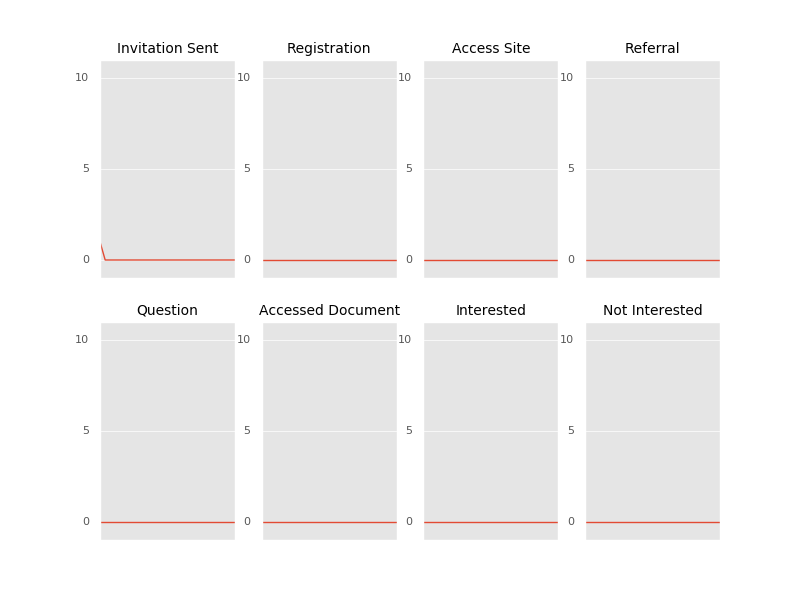
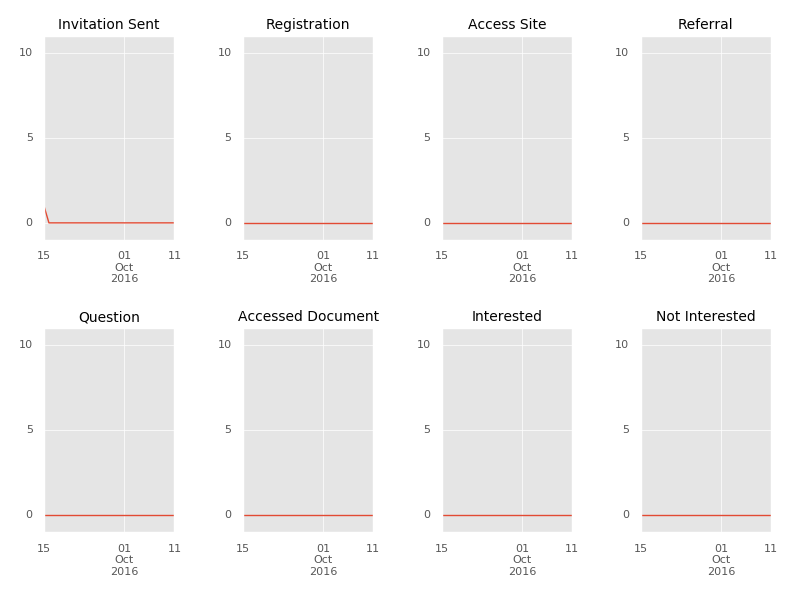
pm

diff --git a/map.html b/map.html
@@ -110,7 +110,7 @@
             
         
             
-            <style> #map_50638bd0befb40dda98ff3c7b778ac5d {
+            <style> #map_c782999ccf5a46fab54602fbe451bb4c {
                 position : relative;
                 width : 100.0%;
                 height: 100.0%;
@@ -126,7 +126,7 @@
             
         
             
-            <div class="folium-map" id="map_50638bd0befb40dda98ff3c7b778ac5d" ></div>
+            <div class="folium-map" id="map_c782999ccf5a46fab54602fbe451bb4c" ></div>
         
         
         
@@ -140,7 +140,7 @@
             var northEast = L.latLng(90, 180);
             var bounds = L.latLngBounds(southWest, northEast);
 
-            var map_50638bd0befb40dda98ff3c7b778ac5d = L.map('map_50638bd0befb40dda98ff3c7b778ac5d', {
+            var map_c782999ccf5a46fab54602fbe451bb4c = L.map('map_c782999ccf5a46fab54602fbe451bb4c', {
                                            center:[43,-100],
                                            zoom: 4,
                                            maxBounds: bounds,
@@ -151,7 +151,7 @@
         
         
             
-            var tile_layer_63b56f59075847e78f5e2d5ae53a6ca8 = L.tileLayer(
+            var tile_layer_62ee553be86d4d3faf8faa005ba39dca = L.tileLayer(
                 'https://{s}.tile.openstreetmap.org/{z}/{x}/{y}.png',
                 {
                     maxZoom: 18,
@@ -159,30 +159,30 @@
                     attribution: 'Data by <a href="http://openstreetmap.org">OpenStreetMap</a>, under <a href="http://www.openstreetmap.org/copyright">ODbL</a>.',
                     detectRetina: false
                     }
-                ).addTo(map_50638bd0befb40dda98ff3c7b778ac5d);
+                ).addTo(map_c782999ccf5a46fab54602fbe451bb4c);
 
         
         
             
 
-            var marker_29984bfa2153483b8e01712a6ebdaad6 = L.marker(
+            var marker_df69b649fc284b4e853c7720c5bbb06e = L.marker(
                 [30,-100],
                 {
                     icon: new L.Icon.Default()
                     }
                 )
-                .addTo(map_50638bd0befb40dda98ff3c7b778ac5d);
+                .addTo(map_c782999ccf5a46fab54602fbe451bb4c);
             
         
             
-            var popup_4874ab8cd25346349d486ddee4b35bef = L.popup({maxWidth: '2650'});
+            var popup_ec3b25701c3f4945ae8af63ffce2d584 = L.popup({maxWidth: '2650'});
 
             
[1 lines of base64/hex data omitted]
-                popup_4874ab8cd25346349d486ddee4b35bef.setContent(i_frame_27c50a50ed114bbc9fa999aee530a368);
[1 lines of base64/hex data omitted]
+                popup_ec3b25701c3f4945ae8af63ffce2d584.setContent(i_frame_e066988c11984075b6fb0992eeb19906);
             
 
-            marker_29984bfa2153483b8e01712a6ebdaad6.bindPopup(popup_4874ab8cd25346349d486ddee4b35bef);
+            marker_df69b649fc284b4e853c7720c5bbb06e.bindPopup(popup_ec3b25701c3f4945ae8af63ffce2d584);
 
             
         

diff --git a/html_test.html b/html_test.html
@@ -1,7 +1,7 @@
 
         <!DOCTYPE html>
         <html>
-            <h1> Popup for site location</h1>
+            <h1> Site Metrics</h1>
             <br>
             <div>
                 <img src="plot44.0.png" id="RC51" alt="RVT" style="width:400px;height:200px;">

diff --git a/Superceded/SiteMetricsDataConditioner11032016.py b/Superceded/SiteMetricsDataConditioner11032016.py
@@ -9,7 +9,6 @@ import matplotlib
 import matplotlib.pyplot as plt
 import matplotlib.gridspec as gridspec
 matplotlib.style.use('ggplot')
-from matplotlib.dates import MonthLocator, WeekdayLocator, DateFormatter
 
 def data_conditioner(filename):
 
@@ -45,42 +44,29 @@ def data_conditioner(filename):
         grid_row = 0
         count =1
         for j in events:
-#            plt.gca().xaxis.set_major_formatter(mdates.DateFormatter('%m/%d/%Y'))
-#            plt.gca().xaxis.set_major_locator(mdates.DayLocator())
+            print j
 
             plt.subplot(2,4,count)
-            plt.tight_layout()
             df_site = df.loc[df['SiteId'] == i]
             df_event = df_site.loc[df['EventTypeId'] == j]
             df_sorted = df_event.sort_values(by='EventDateTime')
             df_sorted['EventDateTime'] = pd.to_datetime(df_sorted['EventDateTime'])
             df_sorted = df_sorted.set_index('EventDateTime')
             df_sorted['day'] = df_sorted.index.date
-
             counts =  df_sorted.groupby('day').size(); counts
             idx = pd.date_range(date_min, date_max)
             counts.index = pd.DatetimeIndex(counts.index)
             counts = counts.reindex(idx, fill_value = 0)
-            plt.tick_params(axis='both', which='major', labelsize=8, labelright='off', length = 0)
-            plt.tick_params(axis='both', which='minor', labelsize=8, labelright='off', length = 0)
-
             counts.plot()
             if counts.max() >= 10:
                 count_max = counts.max()
             else:
                 count_max = 10
-
             days = df_sorted['day'].tolist()
             axes = plt.gca()
-#            axes.get_xaxis().set_visible(False)
-            plt.setp(axes.get_xminorticklabels(), visible=False)
             axes.set_ylim([-1, count_max + 1])
-#            axes.set_xlabel('Date')
-#            axes.set_ylabel('Count')
-            plt.text(0.4, 0.5, 'common Y',  rotation='vertical')
-
-            color = 'r'
-            plt.title(event_type_id[j], size = 10)
+            plt.xlabel('Date')
+            plt.title(event_type_id[j])
             plt.locator_params(axis = 'y', nbins=4)
             count += 1
         filenumber = i

diff --git a/matplotlib_map/MatPlotLibMap11082016.py b/matplotlib_map/MatPlotLibMap11082016.py
@@ -1,0 +1,58 @@
+import numpy as np
+import matplotlib.pyplot as plt
+from mpl_toolkits.basemap import Basemap
+
+#[43,-100]
+
+fig = plt.figure()
+ax = plt.axes()
+
+themap = Basemap(projection='gall',
+              llcrnrlon = -15,              # lower-left corner longitude
+              llcrnrlat = 28,               # lower-left corner latitude
+              urcrnrlon = 45,               # upper-right corner longitude
+              urcrnrlat = 73,               # upper-right corner latitude
+              resolution = 'l',
+              area_thresh = 100000.0,
+              )
+
+themap.drawcoastlines()
+themap.drawcountries()
+themap.fillcontinents(color = 'gainsboro')
+themap.drawmapboundary(fill_color='steelblue')
+
+x, y = themap(0,44 )
+themap.plot(x, y,
+            'o',                    # marker shape
+            color='Indigo',         # marker colour
+            markersize=4            # marker size
+            )
+
+#mouseover message
+
+annotation = ax.annotate("Mouseover point",
+        xy=(0, 44), xycoords='data',
+        textcoords='data',
+        horizontalalignment="left",
+        arrowprops=dict(arrowstyle="simple",
+                        connectionstyle="arc3,rad=-0.2"),
+        bbox=dict(boxstyle="round", facecolor="w",
+                  edgecolor="0.5", alpha=0.9)
+        )
+    # by default, disable the annotation visibility
+annotation.set_visible(False)
+
+#mouseover function
+visibility_changed = False
+for point, annotation in points_with_annotation:
+    should_be_visible = (point.contains(event)[0] == True)
+
+    if should_be_visible != annotation.get_visible():
+            visibility_changed = True
+            annotation.set_visible(should_be_visible)
+
+    if visibility_changed:
+        plt.draw()
+
+
+plt.show()

diff --git a/matplotlib_map/Mouseover.py b/matplotlib_map/Mouseover.py
@@ -1,0 +1,40 @@
+import matplotlib.pyplot as plt
+
+fig = plt.figure()
+ax = plt.axes()
+
+
+points_with_annotation = []
+for i in range(10):
+    point, = plt.plot(i, i, 'o', markersize=10)
+
+    annotation = ax.annotate("Mouseover point %s" % i,
+        xy=(i, i), xycoords='data',
+        xytext=(i + 1, i), textcoords='data',
+        horizontalalignment="left",
+        arrowprops=dict(arrowstyle="simple",
+                        connectionstyle="arc3,rad=-0.2"),
+        bbox=dict(boxstyle="round", facecolor="w",
+                  edgecolor="0.5", alpha=0.9)
+        )
+    # by default, disable the annotation visibility
+    annotation.set_visible(False)
+
+    points_with_annotation.append([point, annotation])
+
+
+def on_move(event):
+    visibility_changed = False
+    for point, annotation in points_with_annotation:
+        should_be_visible = (point.contains(event)[0] == True)
+
+        if should_be_visible != annotation.get_visible():
+            visibility_changed = True
+            annotation.set_visible(should_be_visible)
+
+    if visibility_changed:
+        plt.draw()
+
+on_move_id = fig.canvas.mpl_connect('motion_notify_event', on_move)
+
+plt.show()

diff --git a/SiteMetricsMap11082016.py b/SiteMetricsMap11082016.py
@@ -1,0 +1,36 @@
+import folium
+from folium.element import IFrame
+import pandas as pd
+import numpy as np
+
+def mapper(data):
+
+    m = folium.Map([43,-100], zoom_start=4)
+
+    f = open('html_test.html','w')
+
+    html="""
+        <!DOCTYPE html>
+        <html>
+            <h1> Site Metrics</h1>
+            <br>
+            <div>
+                <img src="plot44.0.png" id="RC51" alt="RVT" style="width:400px;height:200px;">
+            </div>
+        </html>
+        """
+
+    f.write(html)
+    f.close()
+
+    iframe = folium.element.IFrame(html=html, width=800, height=400)
+
+    popup = folium.Popup(iframe, max_width=2650)
+    print iframe
+
+    folium.Marker([30,-100], popup=popup).add_to(m)
+
+    m.create_map(path='map.html')
+
+if __name__ == '__main__':
+    map1 = mapper('data/example.csv')
